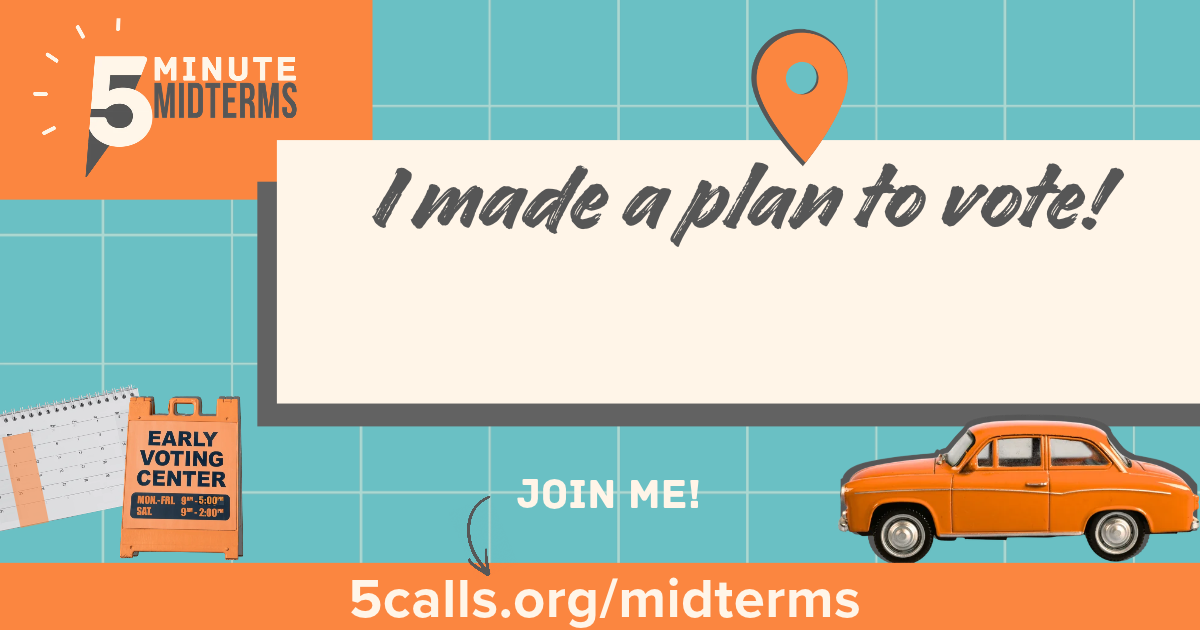
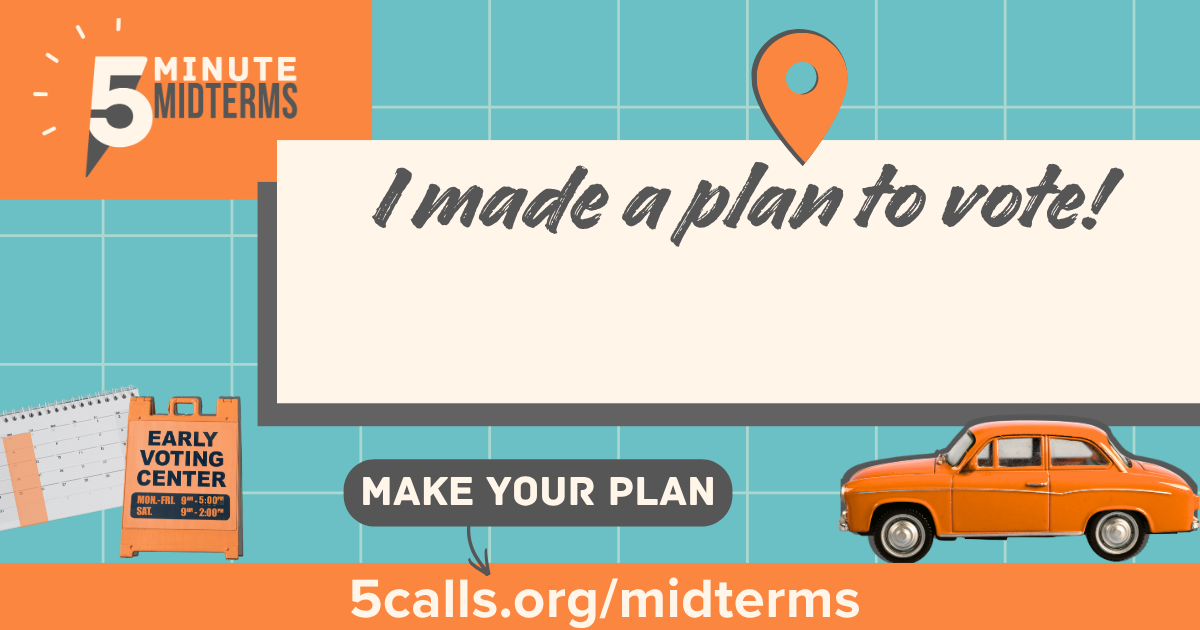
Add week five's extra credit and new share art, and refine the plan
Extra credit asks readers to send friends the link and to hand out the
printable worksheet, with a preview of one worksheet; both the preview and
the button download the PDF. Extra credit can now hold several parts.

The plan: finishing it ticks the confirm box; a drop box or office return
shows that way's deadline instead of the week-early advice; not knowing
where to vote links to VoteAmerica's lookup; "who's going with you" is free
text again; questions all ask "you"; the 5 Calls logo sits by the headline.

New share plates from the designer, and worksheet updates: a yes/no ID
line, the return method ahead of its date, and the Oct 27 mail date.

diff --git a/layouts/partials/midterms-page.html b/layouts/partials/midterms-page.html
@@ -644,8 +644,16 @@
               </span>
             </summary>
             <div class="mt-extra__grid">
-              {{- with .part }}
+              {{- /* One part, or under `parts` several, each with its own
+                     heading, in the one column. */ -}}
+              {{- with .parts | default (cond (isset . "part") (slice .part) slice) }}
                 <div class="mt-extra__main">
+                {{- range . }}
+                {{- /* A part with a `preview` shows that image beside its
+                       words, linked to the same file as its button. */ -}}
+                {{- $preview := .preview }}
+                <div class="mt-extra__part{{ with $preview }} mt-extra__part--preview{{ end }}">
+                  <div class="mt-extra__part-text">
                   <h3>{{ .title }}</h3>
                   {{- /* Each entry is a paragraph, or a {cta: {label, url}}
                          entry for a button, which lets the button sit between
@@ -659,8 +667,11 @@
                     {{- /* A button off the site gets rel="noopener", like every
                            other outbound link here; one pointing at our own
                            /vote/ pages does not need it. */ -}}
+                    {{- /* `download` names the saved file, so the browser
+                           saves it rather than opening it to print. */ -}}
                     <div><a class="mt-pill mt-pill--solid" href="{{ .url }}"
-                       {{- if hasPrefix .url "http" }} rel="noopener"{{ end }}>{{ .label }}</a></div>
+                       {{- if hasPrefix .url "http" }} rel="noopener"{{ end }}
+                       {{- with .download }} download="{{ . }}"{{ end }}>{{ .label }}</a></div>
                       {{- end }}
                     {{- else }}
                     <p>{{ . | markdownify }}</p>
@@ -675,6 +686,17 @@
                       </div>
                     </div>
                   {{- end }}
+                  </div>
+                  {{- with $preview }}
+                    {{- $img := resources.Get .image }}
+                    {{- $img = $img.Resize "480x" }}
+                    <a class="mt-extra__preview" href="{{ .url }}"{{ with .download }} download="{{ . }}"{{ end }}>
+                      <img src="{{ $img.RelPermalink }}" alt="{{ .alt }}"
+                           width="{{ $img.Width }}" height="{{ $img.Height }}" loading="lazy" />
+                    </a>
+                  {{- end }}
+                </div>
+                {{- end }}
                 </div>
               {{- end }}
               {{- /* The same art for everyone, so no state swaps these; the
@@ -1454,6 +1476,17 @@
               hint.classList.toggle("is-good", h.kind === "early");
               hint.hidden = !h.text;
             });
+            // The week-early advice under how a ballot goes back is about the
+            // mail. Picking a drop box or the office swaps in that way's own
+            // deadline instead.
+            plan.querySelectorAll("[data-plan-note]").forEach(function (note) {
+              var step = note.closest(".mt-plan__step");
+              var on = step.querySelector('[data-choice-rule="return_how"] input:checked');
+              var s = planState();
+              var way = on && on.value !== "mail" && s && s.plan && s.plan["return_" + on.value];
+              if (way && way.note) planSetText(note, way.note, !!way.id_link);
+              else planSetText(note, note.dataset.default, false);
+            });
             planRender();
           };
 
@@ -1576,7 +1609,7 @@
               if (!values.length) return;
               if (step.dataset.summaryPrefix) values.unshift(step.dataset.summaryPrefix);
               var warn = [];
-              step.querySelectorAll(".mt-plan__warn:not([hidden])").forEach(function (w) {
+              step.querySelectorAll(".mt-plan__warn:not([hidden]):not([data-form-only])").forEach(function (w) {
                 warn.push(w.dataset.text || w.textContent);
               });
               rows.push({ label: step.dataset.summary, value: values.join(", "), warn: warn });
@@ -1779,6 +1812,13 @@
             closeCal(false);
             planRender();
             planSave();
+            // Finishing the plan is the week's action, so it ticks the confirm
+            // box too, through its own handler, which counts it and unlocks
+            // the art. Reopening the plan leaves the tick alone.
+            if (planFinished && confirmBox && !confirmBox.checked) {
+              confirmBox.checked = true;
+              confirmBox.dispatchEvent(new Event("change"));
+            }
             if (plan.getBoundingClientRect().top < 0) plan.scrollIntoView({ behavior: "smooth", block: "start" });
           });
           // Wait for the page's fonts, so the canvas draws in them rather than

diff --git a/layouts/partials/midterms-plan.html b/layouts/partials/midterms-plan.html
@@ -26,8 +26,12 @@
   {{- /* The reader's state, in the same place the other weeks put it. The
          dates below follow it, so changing it goes back up to the picker. */ -}}
   <div class="mt-deck__top">
-    <div class="mt-deck__lede">
+    {{- /* The 5 Calls logotype, stars and all, beside the headline. A
+           sibling rather than inside it, since the script swaps the
+           headline's text once the plan is done. */ -}}
+    <div class="mt-deck__lede mt-plan__brand">
       <div class="mt-deck__detail" data-plan-headline>{{ $plan.headline }}</div>
+      <img class="mt-plan__logo" src="{{ "img/5calls-logotype.png" | relURL }}" alt="5 Calls" width="1135" height="316" />
     </div>
     <a class="mt-pill mt-pill--tag" href="#mt-state" title="Change your state"
        data-deck="tag" data-state-change>{{ upper site.Data.midterms.state.name }}</a>
@@ -105,10 +109,14 @@
             </div>
             <p class="mt-plan__hint" data-plan-hint hidden></p>
             {{- with $step.note }}
-              <p class="mt-plan__hint">{{ . }}</p>
+              <p class="mt-plan__hint" data-plan-note data-default="{{ . }}">{{ . }}</p>
             {{- end }}
+            {{- /* A warning can end in a link out, and one marked form_only
+                   stays out of the saved summary. */ -}}
             {{- with $step.warn }}
-              <p class="mt-plan__warn" data-plan-warn="{{ .value }}" hidden>{{ .text }}</p>
+              <p class="mt-plan__warn" data-plan-warn="{{ .value }}" data-text="{{ .text }}"
+                 {{- if .form_only }} data-form-only{{ end }} hidden>{{ .text }}
+                {{- with .link }} <a href="{{ .url }}" rel="noopener" target="_blank">{{ .label }}</a>.{{ end }}</p>
             {{- end }}
             {{- with $step.state_warn }}
               <p class="mt-plan__warn" data-plan-state-warn="{{ . }}" hidden></p>

diff --git a/assets/sass/midterms.scss b/assets/sass/midterms.scss
@@ -1073,7 +1073,7 @@ body {
   flex: 1.3;
   min-width: unquote("min(340px, 100%)");
   flex-direction: column;
-  gap: 16px;
+  gap: 40px;
 
   h3 {
     margin: 0;
@@ -1083,12 +1083,55 @@ body {
     color: $ink-solid;
   }
 
-  > p {
+  .mt-extra__part-text > p {
     max-width: 60ch;
     margin: 0;
     font-size: 17px;
     line-height: 1.55;
     color: rgba($ink, 0.85);
+  }
+}
+
+// One ask in the extra credit column; a week with several stacks them with
+// the column's wider gap between.
+.mt-extra__part,
+.mt-extra__part-text {
+  display: flex;
+  flex-direction: column;
+  gap: 16px;
+}
+
+// The words, with a picture of what the button downloads beside them; the
+// picture drops below them once there isn't room.
+.mt-extra__part--preview {
+  flex-flow: row wrap;
+  gap: 32px;
+  align-items: flex-start;
+
+  .mt-extra__part-text {
+    flex: 1;
+    min-width: unquote("min(320px, 100%)");
+  }
+}
+
+.mt-extra__preview {
+  display: block;
+  flex: none;
+  width: 240px;
+  max-width: 100%;
+  border-radius: 4px;
+  box-shadow: 0 2px 12px rgba($ink, 0.18);
+  transition: transform 0.15s ease;
+
+  &:hover {
+    transform: translateY(-2px);
+  }
+
+  img {
+    display: block;
+    width: 100%;
+    height: auto;
+    border-radius: 4px;
   }
 }
 
@@ -1664,6 +1707,20 @@ body {
   // The plan's own title, larger than the other weeks' deck detail.
   .mt-deck__detail {
     font-size: 34px;
+  }
+
+  // The headline with the 5 Calls logotype beside it, sat on its baseline
+  // and about as tall as its capitals.
+  .mt-plan__brand {
+    flex-direction: row;
+    flex-wrap: wrap;
+    gap: 6px 14px;
+    align-items: baseline;
+  }
+
+  .mt-plan__logo {
+    width: auto;
+    height: 26px;
   }
 
   // Only the done button is solid; copy sits beside it as an outline.

diff --git a/scripts/build-midterms-plan-pdf.py b/scripts/build-midterms-plan-pdf.py
@@ -78,12 +78,12 @@ ROWS = [
     ("q", "Where I'll vote:", "line"),
     ("q", "How I'll get there:", ["Walk", "Drive", "Bike", "Bus", "Other"]),
     ("q", "Who's going with me:", "line"),
-    ("q", "Do I need an ID?", ["Yes, I have it", "Yes, still getting it", "No"]),
+    ("q", "I need and have my ID:", ["Yes", "No"]),
     ("h", "IF BY MAIL"),
     ("q", "I'll fill out my ballot by:", "line"),
-    ("q", "Day and time I'll return it:", "line"),
-    ("note", "If returning via US Postal Service, mail it at least a week before the deadline."),
     ("q", "How I'll return it:", ["Mail", "Drop box", "County election office"]),
+    ("note", "If returning via US Postal Service, mail it by Oct 27, a week before the deadline."),
+    ("q", "Day and time I'll return it:", "line"),
     ("q", "I will sign and date my ballot and envelope:", ["Yes", "No"]),
 ]
 

diff --git a/scripts/build-midterms-plates5.py b/scripts/build-midterms-plates5.py
@@ -13,7 +13,8 @@ highlight behind each answer.
 
 Only the panel is painted, row by row from its own left edge to its right, so
 the art around it (the pin above, the car below, the panel's shadow) is left
-as it was. Re-run if the comps change. Temporary, like the rest of /midterms.
+as it was. Comps that come with the panel already blank pass through
+unchanged. Re-run if the comps change. Temporary, like the rest of /midterms.
 """
 
 import os
